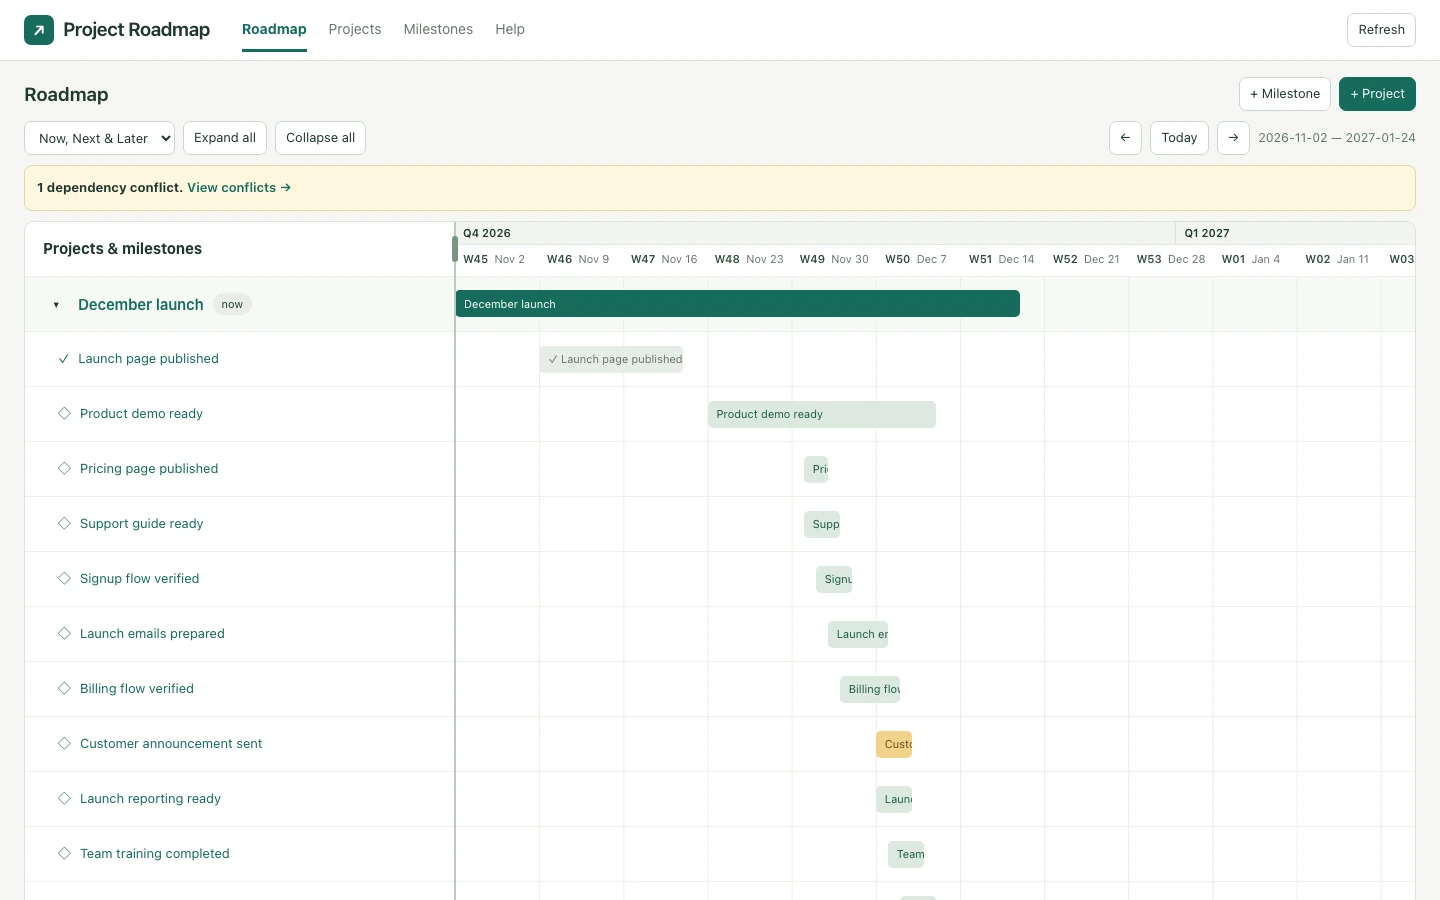
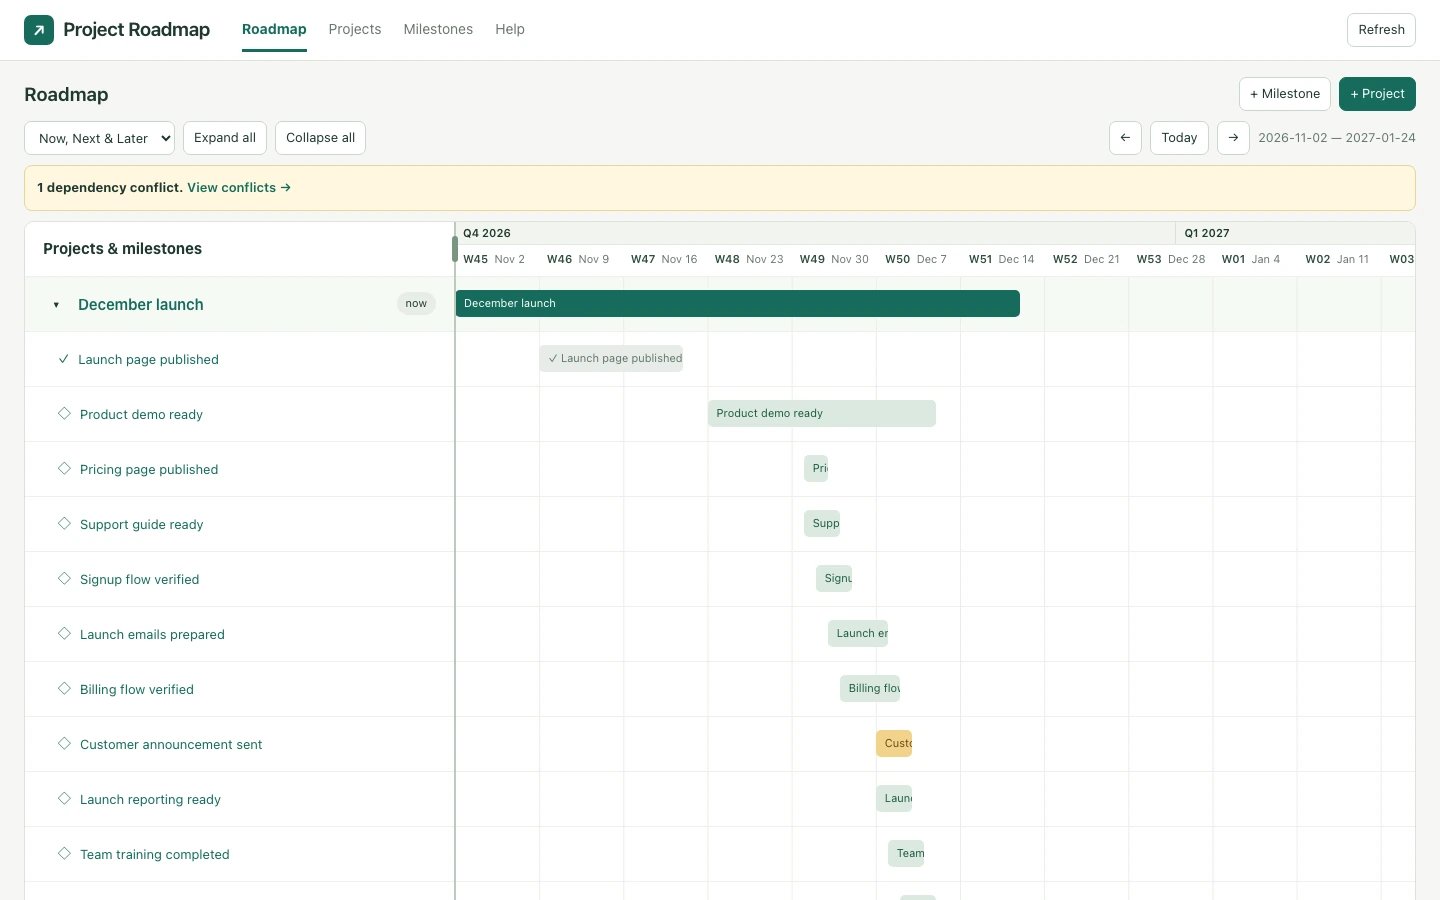
style(project-roadmap): wrap long names in compact rows (#7)

diff --git a/templates/busa-project-roadmap/content/busa-project-roadmap-app/app/js/app.js b/templates/busa-project-roadmap/content/busa-project-roadmap-app/app/js/app.js
@@ -129,11 +129,11 @@ function roadmap() {
       visible
         .map(
           (p) =>
-            `<div class="timeline-row project-row"><div class="row-label"><button class="project-toggle" data-toggle-project="${e(p.id)}" aria-expanded="${!collapsedProjects.has(p.id)}" aria-controls="project-milestones-${e(p.id)}" aria-label="${collapsedProjects.has(p.id) ? "Expand" : "Collapse"} ${e(title(p))}">${collapsedProjects.has(p.id) ? "▸" : "▾"}</button><button class="text-button" data-open="${e(p.id)}" data-kind="projects">${e(title(p))}</button><span class="lane">${e(p.fields.lane || "later")}</span></div><div class="track">${bar(p, "projects", first)}</div></div><div id="project-milestones-${e(p.id)}" ${collapsedProjects.has(p.id) ? "hidden" : ""}>${state.milestones
+            `<div class="timeline-row project-row"><div class="row-label"><button class="project-toggle" data-toggle-project="${e(p.id)}" aria-expanded="${!collapsedProjects.has(p.id)}" aria-controls="project-milestones-${e(p.id)}" aria-label="${collapsedProjects.has(p.id) ? "Expand" : "Collapse"} ${e(title(p))}">${collapsedProjects.has(p.id) ? "▸" : "▾"}</button><button class="text-button" data-open="${e(p.id)}" data-kind="projects" title="${e(title(p))}">${e(title(p))}</button><span class="lane">${e(p.fields.lane || "later")}</span></div><div class="track">${bar(p, "projects", first)}</div></div><div id="project-milestones-${e(p.id)}" ${collapsedProjects.has(p.id) ? "hidden" : ""}>${state.milestones
               .filter((m) => refs(m.fields.project).includes(p.id))
               .map(
                 (m) =>
-                  `<div class="timeline-row"><div class="row-label child"><span class="dot">${m.fields.done ? "✓" : "◇"}</span><button class="text-button" data-open="${e(m.id)}" data-kind="milestones">${e(title(m))}</button></div><div class="track">${bar(m, "milestones", first)}</div></div>`,
+                  `<div class="timeline-row"><div class="row-label child"><span class="dot">${m.fields.done ? "✓" : "◇"}</span><button class="text-button" data-open="${e(m.id)}" data-kind="milestones" title="${e(title(m))}">${e(title(m))}</button></div><div class="track">${bar(m, "milestones", first)}</div></div>`,
               )
               .join("")}</div>`,
         )

diff --git a/templates/busa-project-roadmap/content/busa-project-roadmap-app/app/roadmap.css b/templates/busa-project-roadmap/content/busa-project-roadmap-app/app/roadmap.css
@@ -185,17 +185,32 @@ main {
   border: 0;
 }
 .row-label {
-  padding: 12px 18px;
+  padding: 8px 18px;
   border-right: 1px solid #e2e7e0;
   display: flex;
   align-items: center;
   gap: 9px;
   min-width: 0;
 }
-.row-label button {
+.row-label .text-button {
+  display: -webkit-box;
+  -webkit-box-orient: vertical;
+  -webkit-box-pack: center;
+  -webkit-line-clamp: 2;
+  line-clamp: 2;
   overflow: hidden;
-  text-overflow: ellipsis;
-  white-space: nowrap;
+  white-space: normal;
+  overflow-wrap: anywhere;
+  padding: 0;
+  min-height: 36px;
+  min-width: 0;
+  flex: 1;
+  line-height: 18px;
+  text-align: left;
+}
+.row-label .lane,
+.row-label .dot {
+  flex-shrink: 0;
 }
 .row-label.child {
   padding-left: 33px;
